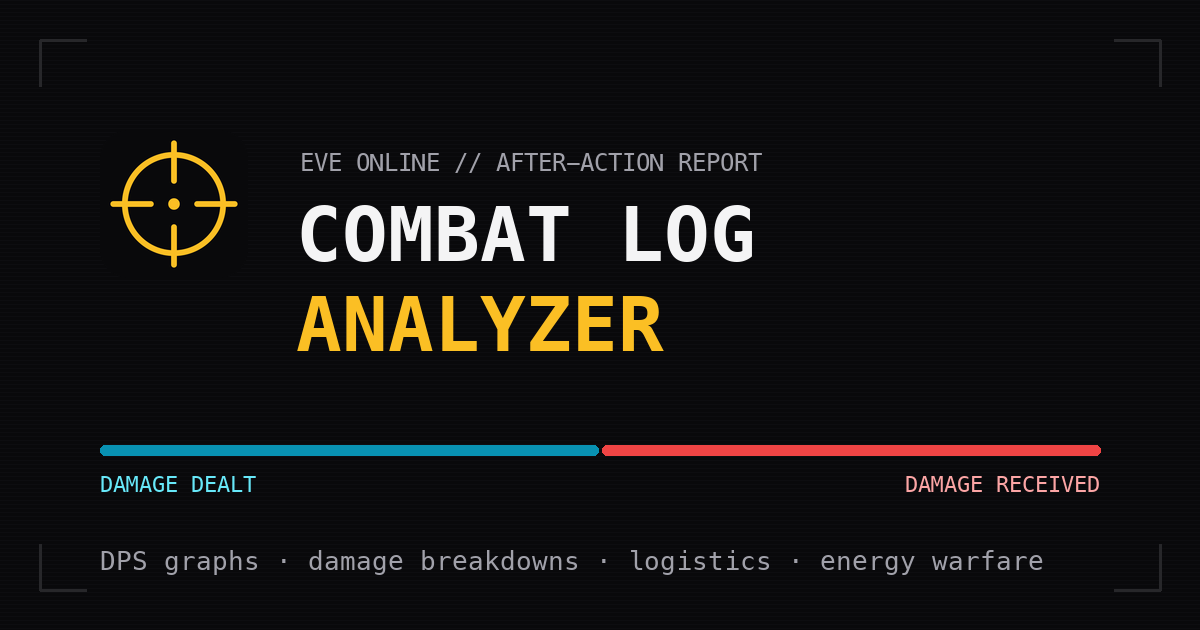
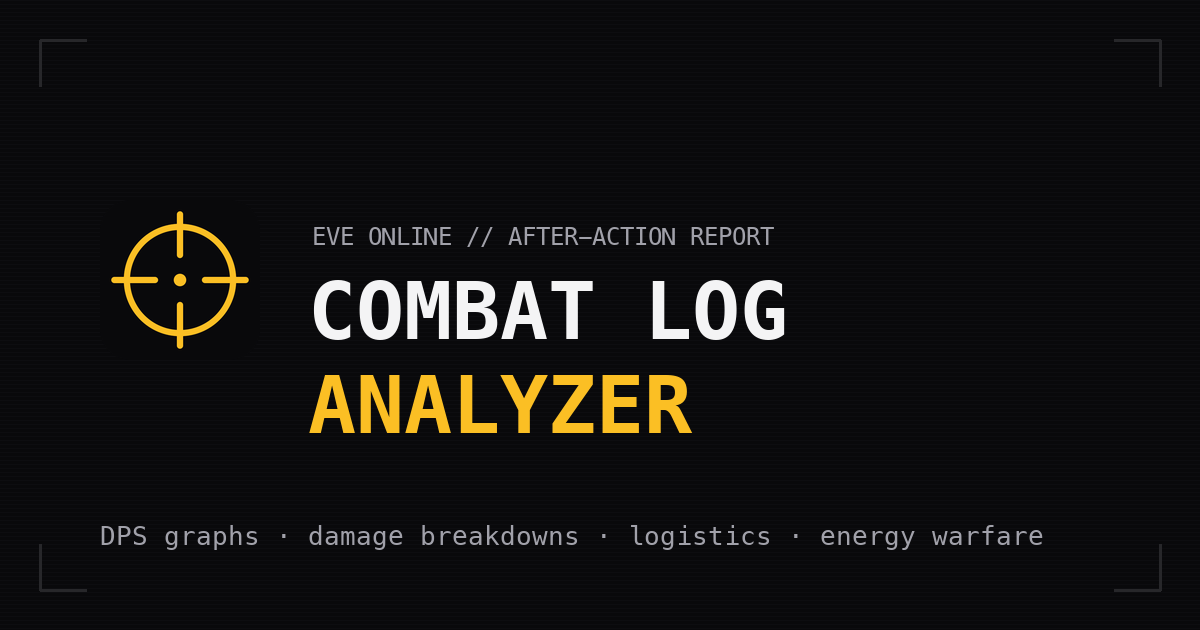
Drop efficiency verdict, show relative session time
The damage-balance bar and efficiency percentage were not a useful
metric; removed from the header and the OG image. The session start
now shows a relative timestamp (e.g. "3 weeks ago", UTC-based).

diff --git a/resources/js/pages/Analysis.vue b/resources/js/pages/Analysis.vue
@@ -17,7 +17,12 @@ import ShipIcon from '@/components/ui/ShipIcon.vue';
 import StatPanel from '@/components/ui/StatPanel.vue';
 import StatRow from '@/components/ui/StatRow.vue';
 import ZkillLink from '@/components/ui/ZkillLink.vue';
-import { eveTimestampToIso, formatDateTime, formatTime } from '@/lib/dates';
+import {
+    eveTimestampToIso,
+    formatDateTime,
+    formatTime,
+    relativeTimeFromEve,
+} from '@/lib/dates';
 import type {
     CombatAnalysis,
     CombatEventData,
@@ -309,14 +314,6 @@ const peakDps = computed(() => {
             : 0;
 
     return { dealt: peakOf(dealtBuckets), received: peakOf(receivedBuckets) };
-});
-
-/** Killboard-style damage efficiency: share of all damage that was dealt by the listener. */
-const efficiency = computed((): number | null => {
-    const total =
-        summary.value.totalDamageDealt + summary.value.totalDamageReceived;
-
-    return total > 0 ? (summary.value.totalDamageDealt / total) * 100 : null;
 });
 
 /** HP repaired onto the listener per HP of damage taken. */
@@ -983,48 +980,19 @@ watch(
                 <p
                     class="mt-1.5 font-mono text-xs tracking-wider text-zinc-400 uppercase"
                 >
-                    {{ analysis.sessionStarted }} //
+                    {{ analysis.sessionStarted }}
+                    <template
+                        v-if="relativeTimeFromEve(analysis.sessionStarted)"
+                    >
+                        ({{ relativeTimeFromEve(analysis.sessionStarted) }})
+                    </template>
+                    //
                     {{ formatDuration(summary.combatDurationSeconds) }}
                     {{ selection ? 'selected' : '' }} //
                     <AnimatedNumber :value="filteredEvents.length" /> events //
                     <AnimatedNumber :value="details.pilotsInvolved" />
                     pilots
                 </p>
-
-                <!-- Damage balance verdict -->
-                <div v-if="efficiency !== null" class="mt-5 max-w-3xl">
-                    <div class="flex h-2 gap-0.5 overflow-hidden rounded-full">
-                        <div
-                            class="bg-cyan-500 transition-all duration-500 motion-reduce:transition-none"
-                            :style="{ width: `${efficiency}%` }"
-                        />
-                        <div
-                            class="bg-red-500/80 transition-all duration-500 motion-reduce:transition-none"
-                            :style="{ width: `${100 - efficiency}%` }"
-                        />
-                    </div>
-                    <div
-                        class="mt-2 flex items-baseline justify-between font-mono text-xs tracking-wider uppercase"
-                    >
-                        <span class="text-cyan-300">
-                            <AnimatedNumber :value="summary.totalDamageDealt" />
-                            dealt
-                        </span>
-                        <span class="font-semibold text-zinc-100">
-                            Efficiency
-                            <AnimatedNumber
-                                :value="efficiency"
-                                :format="percentFormat"
-                            />
-                        </span>
-                        <span class="text-red-300">
-                            <AnimatedNumber
-                                :value="summary.totalDamageReceived"
-                            />
-                            received
-                        </span>
-                    </div>
-                </div>
             </header>
 
             <!-- Filter indicator -->

diff --git a/resources/js/lib/dates.ts b/resources/js/lib/dates.ts
@@ -17,3 +17,40 @@ export function formatDateTime(ms: number): string {
 export function eveTimestampToIso(timestamp: string): string {
     return timestamp.replace(/\./g, '-').replace(' ', 'T');
 }
+
+/**
+ * Human relative time ("3 weeks ago") for an EVE combat log timestamp.
+ * EVE gamelog times are UTC.
+ */
+export function relativeTimeFromEve(timestamp: string): string | null {
+    const match = timestamp.match(
+        /^(\d{4})\.(\d{2})\.(\d{2}) (\d{2}):(\d{2}):(\d{2})$/,
+    );
+
+    if (!match) {
+        return null;
+    }
+
+    const [, y, mo, d, h, mi, se] = match;
+    const then = Date.UTC(+y, +mo - 1, +d, +h, +mi, +se);
+    const seconds = Math.round((then - Date.now()) / 1000);
+
+    const UNITS: [Intl.RelativeTimeFormatUnit, number][] = [
+        ['year', 31536000],
+        ['month', 2592000],
+        ['week', 604800],
+        ['day', 86400],
+        ['hour', 3600],
+        ['minute', 60],
+    ];
+
+    const formatter = new Intl.RelativeTimeFormat('en', { numeric: 'auto' });
+
+    for (const [unit, size] of UNITS) {
+        if (Math.abs(seconds) >= size) {
+            return formatter.format(Math.trunc(seconds / size), unit);
+        }
+    }
+
+    return 'just now';
+}